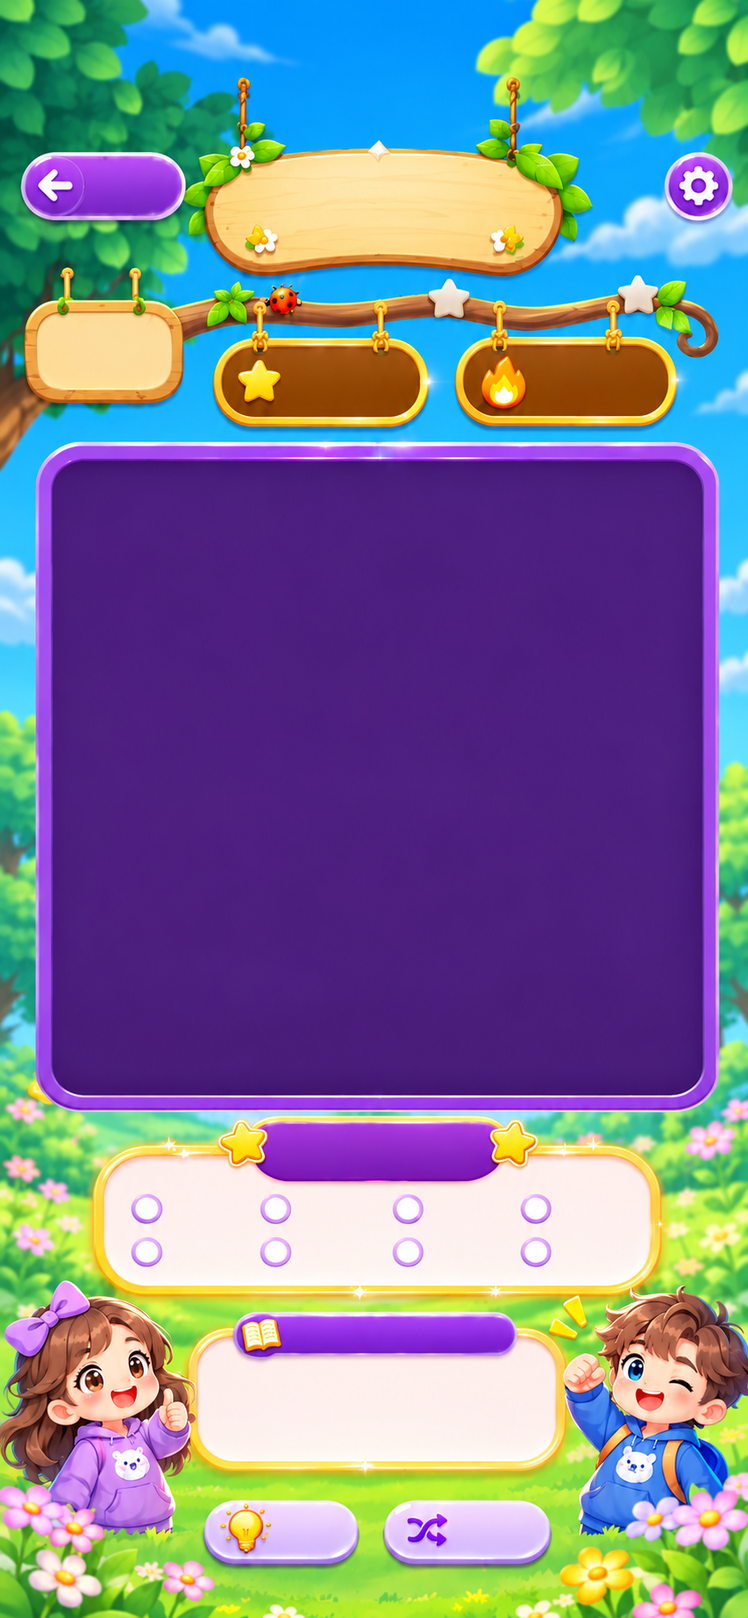
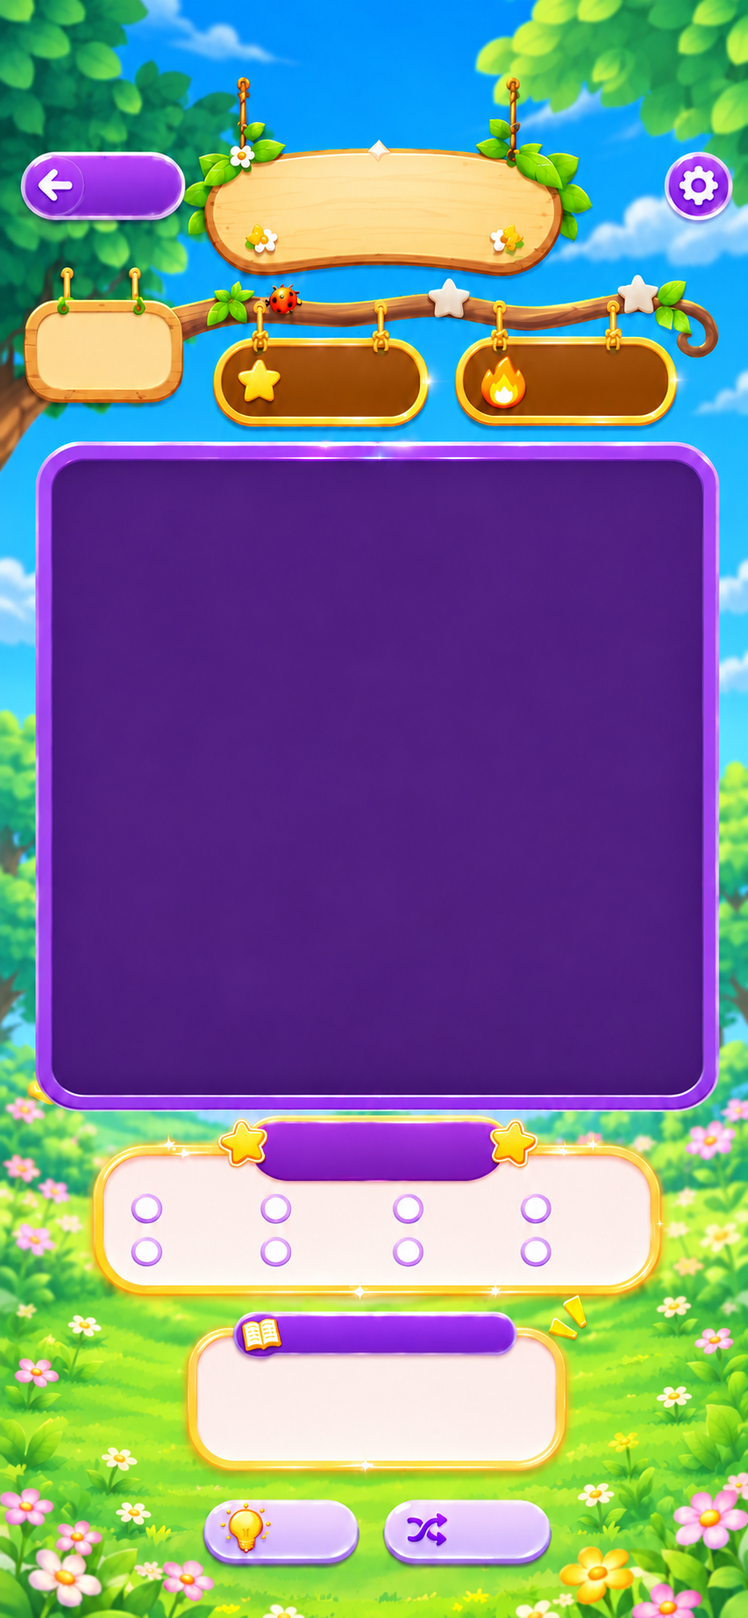
Add files via upload

diff --git a/wm-new-home.css b/wm-new-home.css
@@ -1,0 +1,1 @@
+*{box-sizing:border-box}body{margin:0;background:#302b32;color:#775044;font-family:Georgia,'Songti SC','STSong',serif}button,a{-webkit-tap-highlight-color:transparent}button{font:inherit;cursor:pointer}a{text-decoration:none;color:inherit}button:focus-visible,a:focus-visible{outline:3px solid #b178cf;outline-offset:3px}[hidden]{display:none!important}.home-stage{width:min(100vw,45svh,540px);height:min(222.222vw,100svh,1200px);aspect-ratio:9/20;position:relative;margin:auto;overflow:hidden;container-type:inline-size;background:#f1dcc5 url('assets/scenes/forest-stairs.webp') center/cover no-repeat}.scene-shade{position:absolute;inset:0;background:linear-gradient(#fff8e32b,transparent 40%,#f8dfd126)}.journey-title{position:absolute;top:6.5%;left:5%;width:90%;text-align:center;z-index:2;text-shadow:0 2px 8px #b9758370,0 1px #fff}.journey-title span{display:block;font-size:8.4cqw;font-style:italic;color:#fff9dd}.journey-title strong{display:block;font-size:8.7cqw;font-style:italic;font-weight:500;color:#fff9dd;line-height:1.06}.journey-title p{font-size:4cqw;letter-spacing:.2em;margin:3cqw 0}.home-view{position:absolute;inset:0}.side-tools{position:absolute;top:23%;right:3%;display:grid;gap:4cqw;z-index:3}.side-tools button{border:1px solid #e2bc77;border-radius:50% 50% 30% 30%;background:linear-gradient(140deg,#fff8f2dc,#f6d6e7e0);box-shadow:0 2px 12px #b67e7820,inset 0 0 10px white;width:19cqw;height:20cqw;color:#aa7966;font-size:7cqw}.side-tools b{display:block;font-weight:500;font-size:2.7cqw}.side-tools small{display:block;font-size:2.6cqw}.milestones{position:absolute;left:20%;top:40%;width:44%;display:grid;gap:9cqw;text-align:center;transform:rotate(-2deg)}.milestones a{font-size:4cqw;font-style:italic;padding:2cqw;border:1px solid #f5d39e;background:#fff4dfad;border-radius:3cqw;box-shadow:0 2px 12px #c29b8b30}.milestones small{display:block;font-style:normal;font-size:2.6cqw;margin-top:1cqw}.home-platform{position:absolute;left:5%;right:5%;top:53%;height:27%;border-bottom:2px solid #ffdf9b;border-radius:50%;background:radial-gradient(ellipse at 50% 95%,#fffbd9aa,transparent 65%)}.home-companions{position:absolute;inset:0}.home-companions .wm-companion{width:88%;left:6%;bottom:6%;aspect-ratio:1}.home-companions[data-count="2"] .wm-companion{width:65%;left:-7%;bottom:10%}.home-companions[data-count="2"] .slot-1{left:43%;bottom:8%}.level-badge{position:absolute;bottom:-2cqw;left:25%;width:50%;padding:1.6cqw;border:1px solid #e2bc77;border-radius:40% 40% 35% 35%;background:linear-gradient(#fff7e9,#f9e7ca);text-align:center;font-size:5cqw;font-style:italic;box-shadow:0 3px 12px #bf8d6833}.level-badge small{display:block;font-size:2.5cqw;font-style:normal;margin-top:.7cqw}.start-learning{position:absolute;top:83%;left:20%;width:60%;text-align:center;border:1px solid #deb571;border-radius:9cqw;padding:2cqw;background:linear-gradient(#fff4d9,#f7d5b3);box-shadow:0 3px 10px #a3757344;font-size:4.5cqw}.start-learning small{display:block;font-size:2.8cqw;padding-top:1cqw}.bottom-nav{position:absolute;bottom:1.5%;left:2%;width:96%;height:8%;z-index:30;display:grid;grid-template-columns:repeat(4,1fr);border:1.5px solid #e5bf7d;border-radius:7cqw;background:linear-gradient(120deg,#fff5e7f5,#f5d9e4f5);box-shadow:inset 0 0 0 3px #fff5e7b3,0 2px 16px #ab74754d;overflow:hidden}.bottom-nav button,.bottom-nav a{border:0;background:transparent;text-align:center;color:#875b46;font-size:3.4cqw;display:flex;flex-direction:column;justify-content:center;align-items:center}.bottom-nav span{font-size:5.5cqw;line-height:1}.bottom-nav small{font-size:2.7cqw;margin-top:.4cqw}.bottom-nav [aria-current]{background:radial-gradient(#f7c2e1cc,transparent 75%)}.panel-view{position:absolute;z-index:4;top:26%;left:6%;width:88%;bottom:12%;overflow:auto;border:1px solid #efd4a2;border-radius:5cqw;padding:5cqw;background:#fff8eee8;box-shadow:0 8px 32px #91766a26}.panel-view h1{font-size:6cqw;margin:0 0 3cqw}.panel-view p{font-size:3.5cqw;line-height:1.7}.menu-link,.panel-view>button{display:block;width:100%;text-align:left;border:1px solid #e6c79e;border-radius:3cqw;margin:3cqw 0;padding:3cqw;background:#fffbf5;font-size:3.5cqw}.pet-card img{width:42cqw;display:block;margin:auto}.pet-card h3{font-size:4cqw;text-align:center}.pet-card button{display:block;margin:2cqw auto 6cqw;border:1px solid #d3ac76;border-radius:6cqw;padding:2cqw 5cqw;background:#ffecd4;color:#785448}.intro{position:absolute;inset:0;bottom:10%;z-index:20;background:#211c24}.intro video{width:100%;height:100%;object-fit:cover}.intro-title{position:absolute;top:10%;width:100%;text-align:center;font-size:5cqw;color:#fff4d8;text-shadow:0 2px 7px #624536}.intro-title small{display:block;font-size:3.5cqw;margin-top:2cqw}.intro-controls{position:absolute;top:3%;left:4%;right:4%;display:flex;justify-content:space-between}.intro-controls button{border:1px solid #fff8;border-radius:6cqw;background:#302a3b70;color:white;padding:2cqw 3cqw;font-size:3cqw}.intro-caption{position:absolute;bottom:3%;text-align:center;width:100%;font-size:3.4cqw;color:#fff4d8;text-shadow:0 1px 5px #473329}.home-stage dialog{border:1px solid #e6bd80;border-radius:5cqw;background:#fff8f0;color:#775044;width:91%;max-width:500px;max-height:78svh;padding:4cqw;box-shadow:0 12px 40px #392d4b44}.home-stage dialog::backdrop{background:#31233477;backdrop-filter:blur(5px)}dialog header{display:flex;align-items:center;justify-content:space-between;gap:3cqw}dialog h2{font-size:5cqw;margin:1cqw 0 4cqw}dialog header button{background:transparent;border:0;font-size:7cqw;color:#976c66}.picker-grid{display:grid;grid-template-columns:repeat(2,1fr);gap:3cqw}.picker-grid button{padding:1.5cqw;background:#fffaf6;border:1px solid #e9d4b5;border-radius:3cqw;color:#775044;font-size:3cqw}.picker-grid button.selected{border:2px solid #bc83bb;background:#fae7f2}.picker-grid img{display:block;width:100%;aspect-ratio:1;object-fit:contain}.picker-grid.scenes img{aspect-ratio:9/13;object-fit:cover;border-radius:2cqw}.slot-picker{display:flex;gap:2cqw;margin-bottom:3cqw}.slot-picker button{flex:1;padding:2cqw;border:1px solid #c5a1bd;background:#fff4f9;border-radius:3cqw;color:#775044;font-size:3.2cqw}.slot-picker button.active{background:#f2d3e7}.picker-note{font-size:3cqw;line-height:1.6}#home-toast{position:absolute;z-index:50;left:10%;right:10%;bottom:12%;border-radius:4cqw;text-align:center;background:#6c5267ee;color:white;padding:3cqw;font-size:3.4cqw;pointer-events:none;opacity:0;transition:opacity .2s}#home-toast.show{opacity:1}@media(max-aspect-ratio:9/20){.home-stage{width:100vw;height:100svh;background-size:cover}}

diff --git a/wm-new-home.js b/wm-new-home.js
@@ -1,0 +1,13 @@
+(()=>{'use strict';const C=window.WMCompanions,$=id=>document.getElementById(id),stage=$('home-stage'),picker=$('picker'),content=$('picker-content'),video=$('intro-video');let selectedSlot=0,toastTimer,introTimer;
+function element(tag,text,cls){const n=document.createElement(tag);if(text)n.textContent=text;if(cls)n.className=cls;return n;}
+function button(text,fn){const b=element('button',text);b.type='button';b.onclick=fn;return b;}
+function toast(text){$('home-toast').textContent=text;$('home-toast').classList.add('show');clearTimeout(toastTimer);toastTimer=setTimeout(()=>$('home-toast').classList.remove('show'),2200);}
+function render(){const s=C.read();stage.style.backgroundImage=`url('assets/scenes/${s.scene}.webp')`;C.mount($('home-companions'));}
+function endIntro(){video.pause();clearTimeout(introTimer);$('intro').hidden=true;}
+function showTab(tab){endIntro();const home=tab==='home';$('home-view').hidden=!home;$('panel-view').hidden=home;document.querySelectorAll('[data-tab]').forEach(b=>{if(b.dataset.tab===tab)b.setAttribute('aria-current','page');else b.removeAttribute('aria-current');});if(home)return;const panel=$('panel-view');panel.replaceChildren();panel.append(element('h1',tab==='pets'?'My Pets · 我的宠物':'Me · 我的'));if(tab==='pets'){panel.append(element('p','选择一位宠物陪伴宝宝。首页和游戏最多同时展示两位伙伴。'));C.catalog.filter(x=>x.kind==='pet').forEach(p=>{const card=element('article',null,'pet-card'),img=element('img');img.src=C.src(p.id);img.alt=p.name;card.append(img,element('h3',p.name),button(C.read().slots.includes(p.id)?'Accompanying · 正在陪伴':'Accompany · 一起出发',()=>{const s=C.read();s.slots=[s.slots.find(id=>C.catalog.find(c=>c.id===id).kind==='baby'),p.id];C.save(s);showTab('pets');toast('已同步到首页和游戏');}));panel.append(card);});}else{panel.append(element('p','My English Growth Journey · 我的英语成长之旅'));panel.append(button('Choose Companions · 选择展示伙伴',()=>openCharacters()),button('Change Scene · 切换首页背景',openScenes),button('Replay Birth Story · 重看出生动画',()=>intro(true)),button('More Options · 更多选项',()=>{const more=$('more-options');more.hidden=!more.hidden;}));const more=element('div');more.id='more-options';more.hidden=true;[['legacy-home.html','Original Home · 原首页入口'],['listening.html','Listening · 听力练习'],['growth-road.html','Growth Journey · 成长天梯'],['word-match.html','Word Match · 单词消消乐']].forEach(([href,label])=>{const a=element('a',label,'menu-link');a.href=href;more.append(a);});panel.append(more,element('p','V39 · 保留 V38 题库、关卡与学习进度'));}}
+function openPicker(title){$('picker-title').textContent=title;content.replaceChildren();if(!picker.open)picker.showModal();}
+function openScenes(){endIntro();openPicker('Change Scene · 切换场景');const grid=element('div',null,'picker-grid scenes');C.scenes.forEach(([id,name])=>{const b=button('',()=>{const s=C.read();s.scene=id;C.save(s);picker.close();toast('背景已切换');}),img=element('img');img.src='assets/scenes/'+id+'-thumb.webp';img.alt=name;b.classList.toggle('selected',C.read().scene===id);b.append(img,element('span',name));grid.append(b);});content.append(grid);}
+function openCharacters(slot=0){endIntro();selectedSlot=slot;openPicker('My Companions · 选择伙伴');const slots=element('div',null,'slot-picker');[0,1].forEach(i=>{const b=button((i===0?'First 第一位':'Second 第二位')+(C.read().slots[i]?' ✓':' ＋'),()=>openCharacters(i));b.classList.toggle('active',i===slot);slots.append(b);});content.append(slots,element('p','最多两位，至少一位宝宝；宠物可在“宠物”页加入。', 'picker-note'));const grid=element('div',null,'picker-grid');C.catalog.filter(c=>c.kind==='baby').forEach(c=>{const b=button('',()=>{const s=C.read(),other=s.slots[1-selectedSlot];if(other===c.id){toast('这位宝宝已在另一个位置');return;}s.slots[selectedSlot]=c.id;C.save(s);openCharacters(selectedSlot);}),img=element('img');img.src=C.src(c.id);img.alt=c.name;b.classList.toggle('selected',C.read().slots[selectedSlot]===c.id);b.append(img,element('span',c.name));grid.append(b);});content.append(grid);if(C.read().slots.length>1)content.append(button('Remove This Slot · 移除此位置',()=>{const s=C.read(),remaining=s.slots.filter((_,i)=>i!==selectedSlot);if(!remaining.some(id=>C.catalog.find(c=>c.id===id).kind==='baby')){toast('请至少保留一位宝宝');return;}s.slots=remaining;C.save(s);openCharacters(0);}));}
+function intro(replay=false){endIntro();let count=0;try{count=Math.max(0,Number(localStorage.getItem('wm-launch-count-v39'))||0);if(!replay)localStorage.setItem('wm-launch-count-v39',String(count+1));}catch{}const full=replay||count<10;video.src='assets/intro/'+(full?'birth.mp4':'welcome.mp4');video.muted=false;$('intro-sound').textContent='Sound On · 声音已开';$('intro').hidden=false;const play=video.play();if(play?.catch)play.catch(()=>{video.muted=true;$('intro-sound').textContent='开启声音';video.play().catch(()=>{$('intro-sound').textContent='点击播放并开启声音';});});introTimer=setTimeout(endIntro,full?22000:8000);}
+$('skip-intro').onclick=endIntro;video.onended=endIntro;video.onerror=()=>{endIntro();toast('动画暂时无法播放，已进入首页');};$('intro-sound').onclick=()=>{video.muted=!video.muted;$('intro-sound').textContent=video.muted?'开启声音':'Sound On · 声音已开';video.play().catch(()=>{});};$('scenes-button').onclick=openScenes;$('characters-button').onclick=()=>openCharacters();$('close-picker').onclick=()=>picker.close();picker.addEventListener('click',e=>{if(e.target===picker){const r=picker.getBoundingClientRect();if(e.clientX<r.left||e.clientX>r.right||e.clientY<r.top||e.clientY>r.bottom)picker.close();}});document.querySelectorAll('[data-tab]').forEach(b=>b.onclick=()=>showTab(b.dataset.tab));document.querySelector('.bottom-nav a').addEventListener('click',endIntro);window.addEventListener('pagehide',endIntro);window.addEventListener('wm-companions-change',render);window.addEventListener('storage',render);render();const initial=new URLSearchParams(location.search).get('tab');if(['pets','me'].includes(initial))showTab(initial);else intro();
+})();

diff --git a/wm-match-app.js b/wm-match-app.js
@@ -88,7 +88,7 @@ async function collideCards(cards){
 }
 async function scoreFlight(result,rects){const base=stageRect(),start={x:rects.reduce((n,r)=>n+r.left+r.width/2,0)/2-base.left,y:rects.reduce((n,r)=>n+r.top+r.height/2,0)/2-base.top},end=midpoint($('game-score').getBoundingClientRect(),base);const text='+'+score(result.base)+(result.bonus?'  +'+score(result.bonus):'');const cls='flying-score'+(result.firstTarget?' target':'')+(result.bonus===5?' bonus5':result.bonus===10?' bonus10':'');const n=el('div',cls,text);n.style.left=start.x+'px';n.style.top=start.y+'px';effects.append(n);await motion(n,[{transform:'translate(-50%,-50%) scale(.7)',opacity:0},{offset:.12,transform:'translate(-50%,-65%) scale(1.08)',opacity:1},{offset:.72,transform:'translate(-50%,-95%) scale(1)',opacity:1},{transform:`translate(calc(-50% + ${end.x-start.x}px),calc(-50% + ${end.y-start.y}px)) scale(.35)`,opacity:0}],{duration:1600});n.remove();}
 function particles(x,y,n=15){const colors=['#fff4a0','#f59fd5','#a6f4ff','#f0cdff'];for(let i=0;i<n;i++){const dot=el('i','spark');dot.style.left=x+'px';dot.style.top=y+'px';dot.style.setProperty('--spark',colors[i%colors.length]);effects.append(dot);const a=i/n*Math.PI*2,d=35+(i*17%70);motion(dot,[{transform:'scale(.4)',opacity:1},{transform:`translate(${Math.cos(a)*d}px,${Math.sin(a)*d+40}px) rotate(${i*50}deg) scale(.5)`,opacity:0}],{duration:650+i%4*90}).then(()=>dot.remove());}}
-function cheer(result){if(!result.bonus)return;effects.querySelector('.combo-cheer')?.remove();const large=result.bonus===10,count=game.s.combo,spoken=({3:'Three',5:'Five',10:'Ten'})[count]||String(count),english=large?spoken+' in a row! Amazing!':result.bonus===5?spoken+' in a row! Amazing!':'Wow! '+spoken.toLowerCase()+' in a row!',zh=large?'势不可挡！':result.bonus===5?'太厉害了！':'真棒！';const n=el('div','combo-cheer',english);n.append(el('small','',zh));effects.append(n);motion(n,[{transform:'scale(.55)',opacity:0},{offset:.2,transform:'scale(1.08)',opacity:1},{offset:.7,transform:'scale(1)',opacity:1},{transform:'translateY(-20px) scale(1.02)',opacity:0}],{duration:1650}).then(()=>n.remove());particles(stage.clientWidth*.5,stage.clientHeight*.32,large?28:result.bonus===5?20:9);if(large){for(const side of ['girl','boy']){const s=el('div','kid-cheer '+side,'★ ✦ ★');effects.append(s);motion(s,[{transform:'translateY(6px) scale(.6)',opacity:0},{offset:.3,transform:'translateY(-7px) scale(1.15)',opacity:1},{offset:.7,transform:'translateY(-2px) scale(1)',opacity:1},{transform:'translateY(-15px)',opacity:0}],{duration:1100}).then(()=>s.remove());}tone('win');}else tone('combo');celebrate(english,large,result.bonus);}
+function cheer(result){if(!result.bonus)return;window.WMCompanions?.reward(result.combo%10===0?10:result.combo%10);effects.querySelector('.combo-cheer')?.remove();const large=result.bonus===10,count=game.s.combo,spoken=({3:'Three',5:'Five',10:'Ten'})[count]||String(count),english=large?spoken+' in a row! Amazing!':result.bonus===5?spoken+' in a row! Amazing!':'Wow! '+spoken.toLowerCase()+' in a row!',zh=large?'势不可挡！':result.bonus===5?'太厉害了！':'真棒！';const n=el('div','combo-cheer',english);n.append(el('small','',zh));effects.append(n);motion(n,[{transform:'scale(.55)',opacity:0},{offset:.2,transform:'scale(1.08)',opacity:1},{offset:.7,transform:'scale(1)',opacity:1},{transform:'translateY(-20px) scale(1.02)',opacity:0}],{duration:1650}).then(()=>n.remove());particles(stage.clientWidth*.5,stage.clientHeight*.32,large?28:result.bonus===5?20:9);if(large){for(const side of ['girl','boy']){const s=el('div','kid-cheer '+side,'★ ✦ ★');effects.append(s);motion(s,[{transform:'translateY(6px) scale(.6)',opacity:0},{offset:.3,transform:'translateY(-7px) scale(1.15)',opacity:1},{offset:.7,transform:'translateY(-2px) scale(1)',opacity:1},{transform:'translateY(-15px)',opacity:0}],{duration:1100}).then(()=>s.remove());}tone('win');}else tone('combo');celebrate(english,large,result.bonus);}
 async function tap(id){if(locked||dialogOpen||game.s.finished)return;const t=game.s.board.find(x=>x.id===id);if(!t)return;clearHint();helpTitle();message(t.lang==='en'?tileText(t):'',t.lang==='zh'?tileText(t):'');const old=capture(),result=game.select(id);if(result.kind==='selected'){say(tileText(t),t.lang==='en'?'en-GB':'zh-CN');renderBoard();return;}save();if(result.kind==='wrong'){locked=true;renderBoard();renderNumbers();tone('wrong');announce('Try again · 配对错误，连消重新计算');await Promise.all(result.ids.map(id=>motion(tileNodes.get(id),[{transform:'translateX(0)'},{transform:'translateX(-5px)'},{transform:'translateX(5px)'},{transform:'translateX(-3px)'},{transform:'translateX(0)'}],{duration:280})));locked=false;return;}
 if(result.kind!=='match')return;locked=true;const token=session;const rects=result.ids.map(id=>{const r=tileNodes.get(id).getBoundingClientRect(),t=result.previous.find(t=>t.id===id);return {left:r.left,top:r.top,width:r.width,height:r.height,lang:t.lang};});result.ids.forEach(id=>{const n=tileNodes.get(id);n.classList.remove('selected');if(result.firstTarget)n.style.opacity='.12';});tone('match');matchedWord(result.word);cheer(result);void pumpSpeech();const scoreAnimation=scoreFlight(result,rects);await wordFlight(result,rects);if(token!==session)return;renderTargets();await renderBoard(old,{newIds:result.newIds});await scoreAnimation;if(token!==session)return;renderNumbers();locked=false;announce((result.firstTarget?'Target completed · 目标完成':'Matched · 配对成功')+' +'+score(result.base+result.bonus));if(result.finished)showFinish();}
 function closeDialog(){if(game.s.finished&&$('dialog').dataset.kind==='finish')return;$('dialog').hidden=true;dialogOpen=false;lastFocus?.focus?.({preventScroll:true});}

diff --git a/wm-companions.js b/wm-companions.js
@@ -1,0 +1,21 @@
+/* Shared home/game companions. V38 progress and question banks are untouched. */
+(()=>{'use strict';
+const KEY='wm-companions-v39',catalog=[
+{id:'blond_angel',name:'Sunny 阳光天使',kind:'baby'},
+{id:'brown_angel',name:'Coco 棕羽天使',kind:'baby'},
+{id:'purple_angel',name:'Violet 紫金天使',kind:'baby'},
+{id:'school_girl',name:'Bella 女孩天使',kind:'baby'},
+{id:'school_boy',name:'Leo 男孩天使',kind:'baby'},
+{id:'phoenix',name:'Phoenix 小凤凰',kind:'pet'},
+{id:'ice_cat',name:'Snow 魔法小猫',kind:'pet'}];
+const scenes=[['forest-stairs','Forest Steps 森林阶梯'],['coast-stairs','Ocean Steps 海边阶梯'],['city-stairs','City Steps 城市阶梯'],['forest','Forest 森林'],['coast','Ocean 海边'],['city','City 城市']];
+function read(){let s={};try{s=JSON.parse(localStorage.getItem(KEY)||'{}')||{}}catch{}const slots=Array.isArray(s.slots)?[...new Set(s.slots)].filter(id=>catalog.some(c=>c.id===id)).slice(0,2):[];if(!slots.some(id=>catalog.find(c=>c.id===id).kind==='baby'))slots.unshift('blond_angel');return{scene:scenes.some(x=>x[0]===s.scene)?s.scene:'forest-stairs',slots:slots.slice(0,2)}}
+function save(s){try{localStorage.setItem(KEY,JSON.stringify(s));}catch{}window.dispatchEvent(new Event('wm-companions-change'));}
+const src=(id,action='idle')=>'assets/companions/'+id+'/'+action+(action==='idle'?'.webp':'.png');
+function mount(host,classes=''){host.replaceChildren();read().slots.forEach((id,i)=>{const n=document.createElement('div');n.className='wm-companion '+classes+' slot-'+i;n.dataset.character=id;const img=document.createElement('img');img.src=src(id);img.alt=catalog.find(c=>c.id===id).name;img.draggable=false;n.append(img);host.append(n);});host.dataset.count=read().slots.length;}
+let timer=0,epoch=0;
+function reward(bonus){const host=document.querySelector('.game-companions');if(!host)return;const token=++epoch;clearTimeout(timer);const nodes=[...host.children];nodes.forEach(n=>{n.getAnimations?.().forEach(a=>a.cancel());const id=n.dataset.character,pet=catalog.find(c=>c.id===id)?.kind==='pet';n.firstElementChild.src=src(id,pet?'idle':bonus===3?'cheer_fist':'thumbs_up');if(bonus===10&&!matchMedia('(prefers-reduced-motion: reduce)').matches&&n.animate){const stage=host.parentElement,w=stage.clientWidth,h=stage.clientHeight;const x=n.offsetLeft+n.offsetWidth/2,y=n.offsetTop+n.offsetHeight/2;const point=(px,py,scale=1)=>({transform:`translate(${w*px-x}px,${h*py-y}px) scale(${scale})`});n.animate([{transform:'translate(0,0) scale(1)'},{...point(.3,.59,1.05),offset:.22},{...point(.7,.37,1.1),offset:.45},{...point(.7,.6,1.05),offset:.65},{...point(.42,.68),offset:.8},{transform:'translate(0,0) scale(1)'}],{duration:2800,easing:'ease-in-out'});}else if(n.animate){n.animate([{transform:'translateY(0)'},{transform:'translateY(-10px) rotate(-3deg)',offset:.4},{transform:'translateY(0)'}],{duration:650});}});timer=setTimeout(()=>{if(epoch===token)nodes.forEach(n=>n.firstElementChild.src=src(n.dataset.character));},bonus===10?3000:2000);}
+window.WMCompanions={read,save,catalog,scenes,src,mount,reward};
+function boot(){const stage=document.querySelector('.match-stage');if(stage){const host=document.createElement('div');host.className='game-companions';stage.append(host);mount(host);window.addEventListener('wm-companions-change',()=>mount(host));window.addEventListener('storage',e=>{if(e.key===KEY)mount(host);});}}
+if(document.readyState==='loading')document.addEventListener('DOMContentLoaded',boot);else boot();
+})();

diff --git a/index.html b/index.html
@@ -1,1 +1,1 @@
-<!DOCTYPE html><html lang="zh-CN"><head><meta charset="UTF-8"><meta name="viewport" content="width=device-width,initial-scale=1,viewport-fit=cover"><title>单词消消乐 · 首页</title><meta name="apple-mobile-web-app-capable" content="yes"><meta name="apple-mobile-web-app-title" content="单词消消乐"><meta name="apple-mobile-web-app-status-bar-style" content="black-translucent"><link rel="manifest" href="./manifest.webmanifest"><meta name="wordmatch-version" content="V32"><link href="wm-home.css?v=21" rel="stylesheet"><link rel="stylesheet" href="wm-match-home.css?v=32"></head><body><main id="app" class="app" aria-live="polite"></main><script src="wm-course-library.js?v=16"></script><script src="wm-practice-assessment.js?v=23"></script><script src="wm-home-app.js?v=32"></script><script src="wm-game-route.js?v=38"></script></body></html>
+<!doctype html><html lang="zh-CN"><head><meta charset="utf-8"><meta name="viewport" content="width=device-width,initial-scale=1,viewport-fit=cover"><meta name="theme-color" content="#efd7bc"><meta name="wordmatch-version" content="V39"><title>My English Growth Journey · 我的英语成长之旅</title><link rel="manifest" href="manifest.webmanifest"><link rel="stylesheet" href="wm-companions.css?v=39"><link rel="stylesheet" href="wm-new-home.css?v=39"></head><body><main id="home-stage" class="home-stage"><div class="scene-shade"></div><header class="journey-title"><span>My English</span><strong>Growth Journey</strong><p>我的英语成长之旅</p></header><section id="home-view" class="home-view"><div class="side-tools"><button id="scenes-button">✧<b>Change Scene</b><small>切换场景</small></button><button id="characters-button">♧<b>My Companions</b><small>选择宝宝</small></button></div><div class="milestones"><a href="growth-road.html">Primary School<small>小学</small></a><a href="growth-road.html">Kindergarten<small>幼儿园</small></a></div><div class="home-platform"><div id="home-companions" class="home-companions"></div><span class="level-badge">Level 0<small>宝宝初始形象</small></span></div><a class="start-learning" href="word-match.html">Start Learning <small>进入单词消消乐 ›</small></a></section><section id="panel-view" class="panel-view" hidden></section><aside id="intro" class="intro" hidden><video id="intro-video" playsinline preload="metadata" poster="assets/intro/poster.jpg"></video><div class="intro-title">My English Growth Journey<small>我的英语成长之旅</small></div><div class="intro-controls"><button id="intro-sound">开启声音</button><button id="skip-intro">Skip 跳过 ›</button></div><p class="intro-caption">你和伙伴的成长之旅，从这里开始</p></aside><nav class="bottom-nav" aria-label="Main navigation 主导航"><button data-tab="home" aria-current="page"><span>⌂</span>Home<small>首页</small></button><a href="growth-road.html"><span>♧</span>Growth<small>成长</small></a><button data-tab="pets"><span>♧</span>Pets<small>宠物</small></button><button data-tab="me"><span>♙</span>Me<small>我的</small></button></nav><dialog id="picker"><header><h2 id="picker-title"></h2><button id="close-picker" aria-label="关闭">×</button></header><div id="picker-content"></div></dialog><div id="home-toast" role="status"></div></main><script src="wm-companions.js?v=39"></script><script src="wm-new-home.js?v=39"></script></body></html>

diff --git a/word-match.html b/word-match.html
@@ -1,5 +1,5 @@
 <!doctype html>
-<html lang="zh-CN"><head><meta charset="utf-8"><meta name="viewport" content="width=device-width,initial-scale=1,viewport-fit=cover"><meta name="apple-mobile-web-app-capable" content="yes"><meta name="apple-mobile-web-app-status-bar-style" content="black-translucent"><title>Word Match · 单词消消乐</title><link rel="stylesheet" href="wm-match.css?v=37"></head>
+<html lang="zh-CN"><head><meta charset="utf-8"><meta name="viewport" content="width=device-width,initial-scale=1,viewport-fit=cover"><meta name="apple-mobile-web-app-capable" content="yes"><meta name="apple-mobile-web-app-status-bar-style" content="black-translucent"><title>Word Match · 单词消消乐</title><link rel="stylesheet" href="wm-match.css?v=37"><link rel="stylesheet" href="wm-companions.css?v=39"></head>
 <body><main id="match-game" aria-label="Word Match 单词消消乐"><div class="match-stage">
 <a class="home-button art-button" href="index.html" aria-label="Home 返回首页"><span>Home<small>返回首页</small></span></a>
 <header class="game-title"><strong aria-label="Word Match"><span>W</span><span>o</span><span>r</span><span>d</span> <span>M</span><span>a</span><span>t</span><span>c</span><span>h</span></strong><h1>单词消消乐</h1></header>
@@ -19,4 +19,4 @@
 <div id="dialog" class="match-dialog-layer" hidden><section class="match-dialog" role="dialog" aria-modal="true" aria-labelledby="dialog-title"><header><h2 id="dialog-title"></h2><button type="button" id="close-dialog" aria-label="Close 关闭">×</button></header><div id="dialog-content"></div></section></div>
 <audio id="match-audio" playsinline preload="none" hidden></audio>
 </div><p id="match-status" class="sr-only" role="status"></p></main>
-<script src="wm-match-data.js?v=37"></script><script src="wm-match-engine.js?v=37"></script><script src="wm-microsoft-voice.js?v=37"></script><script src="wm-match-app.js?v=38"></script></body></html>
+<script src="wm-match-data.js?v=37"></script><script src="wm-match-engine.js?v=37"></script><script src="wm-microsoft-voice.js?v=37"></script><script src="wm-companions.js?v=39"></script><script src="wm-match-app.js?v=39"></script></body></html>

diff --git a/legacy-home.html b/legacy-home.html
@@ -1,0 +1,1 @@
+<!DOCTYPE html><html lang="zh-CN"><head><meta charset="UTF-8"><meta name="viewport" content="width=device-width,initial-scale=1,viewport-fit=cover"><title>单词消消乐 · 首页</title><meta name="apple-mobile-web-app-capable" content="yes"><meta name="apple-mobile-web-app-title" content="单词消消乐"><meta name="apple-mobile-web-app-status-bar-style" content="black-translucent"><link rel="manifest" href="./manifest.webmanifest"><meta name="wordmatch-version" content="V32"><link href="wm-home.css?v=21" rel="stylesheet"><link rel="stylesheet" href="wm-match-home.css?v=32"></head><body><main id="app" class="app" aria-live="polite"></main><script src="wm-course-library.js?v=16"></script><script src="wm-practice-assessment.js?v=23"></script><script src="wm-home-app.js?v=32"></script><script src="wm-game-route.js?v=38"></script></body></html>

diff --git a/wm-companions.css b/wm-companions.css
@@ -1,0 +1,1 @@
+.wm-companion img{width:100%;height:100%;object-fit:contain;display:block;pointer-events:none;filter:drop-shadow(0 5px 8px #6b3c6425)}.wm-companion{position:absolute;aspect-ratio:1;animation:wm-hover 4s ease-in-out infinite;will-change:transform}.wm-companion:nth-child(2){animation-delay:-1.7s}.game-companions{position:absolute;inset:0;z-index:8;pointer-events:none}.game-companions .wm-companion{top:80.2%;width:29%;left:-1.5%}.game-companions .slot-1{left:73%}.game-companions[data-count="1"] .slot-0{left:-1.5%}@keyframes wm-hover{0%,100%{translate:0 0}50%{translate:0 -5px}}@media(prefers-reduced-motion:reduce){.wm-companion{animation:none}}
